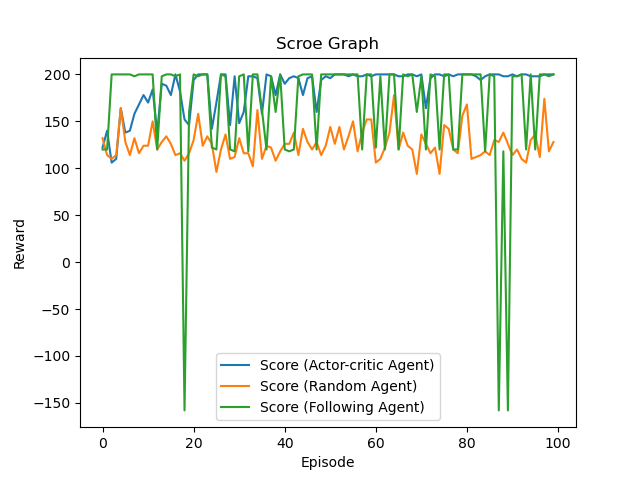
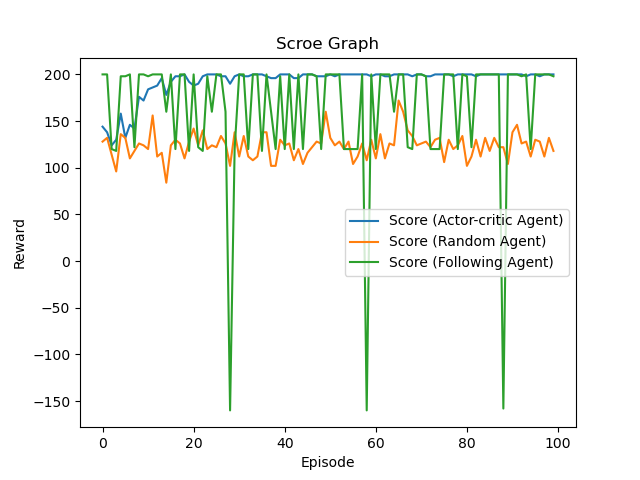
object 1 commit

diff --git a/code/main_code(buffered)/a2c.py b/code/main_code(buffered)/a2c.py
@@ -48,8 +48,8 @@ class ActorCritic():
     def __init__(self, state_size = 5, action_size = 5):
         self.state_size = state_size
         self.action_size = action_size
-        self.actor_lr = 1e-3
-        self.critic_lr = 1e-3
+        self.actor_lr = 1.5e-3
+        self.critic_lr = 1.5e-3 # 1e-3
         self.gamma = 0.99    # discount rate
         self.actor = Actor(self.state_size, self.action_size)
         self.critic = CriticV(self.state_size)

diff --git a/code/main_code(buffered)/train_random.py b/code/main_code(buffered)/train_random.py
@@ -15,7 +15,7 @@ channel = 10
 time = (200)-1
 time_step = 0
 n_episodes = 100
-number_of_jammer = 2
+number_of_jammer = 5
 
 env = JammingEnv(n_channels=channel,max_steps=time,num_jammers=number_of_jammer)
 agent = ActorCritic(state_size=channel,action_size=channel)
